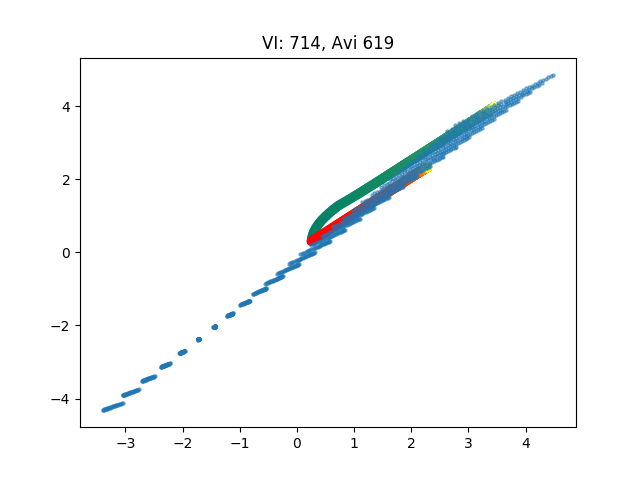
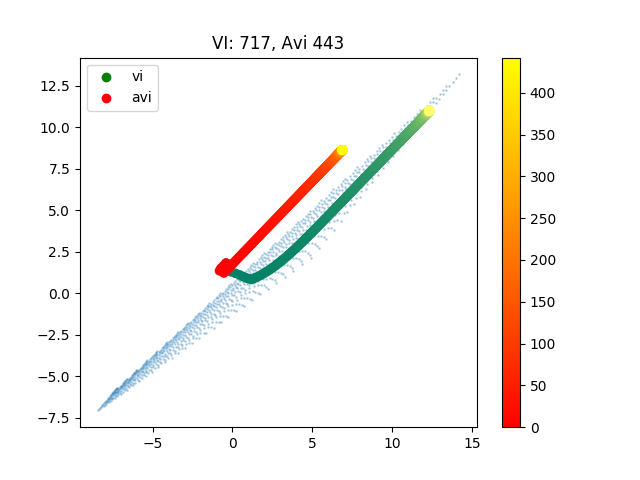
hmm...

diff --git a/code/search_dynamics/experiments.py b/code/search_dynamics/experiments.py
@@ -3,12 +3,9 @@ import numpy as np
 import matplotlib.pyplot as plt
 import copy
 
-def generate_avi_vs_vi():
+def generate_avi_vs_vi(mdp):
     print('Running AVI vs VI')
-    n_states, n_actions = 2, 2
     lr = 0.1
-
-    mdp = build_random_mdp(n_states, n_actions, 0.9)
 
     # vi
     init = np.random.standard_normal((mdp.S, mdp.A))
@@ -16,32 +13,31 @@ def generate_avi_vs_vi():
     vs = np.vstack([np.max(q, axis=1) for q in qs])
 
     n = vs.shape[0]
-    plt.scatter(vs[:, 0], vs[:, 1], c=range(n), cmap='summer', label='vi')
+    plt.scatter(vs[0, 0], vs[0, 1], c='g', label='vi')
+    plt.scatter(vs[:, 0], vs[:, 1], c=range(n), cmap='summer')
 
     # avi
     # K = np.eye(n_states)
-    K = np.random.standard_normal((n_states))
+    K = np.random.standard_normal((mdp.S))
     K = (K + K.T)/2 + 1  # this can accelerate learning. but also lead to divergence. want to explore this more!!!
-    d = np.random.random(n_states)
+    d = np.random.random(mdp.S)
     D = np.diag(d/d.sum())  # this can change the optima!!
     # D = np.eye(n_states)
     qs = solve(adjusted_value_iteration(mdp, lr, D, K), init)
     vs = np.vstack([np.max(q, axis=1) for q in qs])
 
     m = vs.shape[0]
-    plt.scatter(vs[:, 0], vs[:, 1], c=range(m), cmap='autumn', label='avi')
+    plt.scatter(vs[0, 0], vs[0, 1], c='r', label='avi')
+    plt.scatter(vs[:, 0], vs[:, 1], c=range(m), cmap='autumn')
     plt.title('VI: {}, Avi {}'.format(n, m))
+    plt.legend()
+    plt.colorbar()
 
-    vs = polytope(mdp.P, mdp.r, mdp.discount)
-    plt.scatter(vs[:, 0], vs[:, 1], s=5, alpha=0.5)
     plt.savefig('figs/avi-vs-vi.png')
     plt.close()
 
-def generate_vi_sgd_vs_mom():
+def generate_vi_sgd_vs_mom(mdp):
     print('Running VI SGD vs Mom')
-    n_states, n_actions = 2, 2
-
-    mdp = build_random_mdp(n_states, n_actions, 0.9)
 
     # sgd
     init = np.random.standard_normal((mdp.S, mdp.A))
@@ -49,93 +45,89 @@ def generate_vi_sgd_vs_mom():
     vs = np.vstack([np.max(q, axis=1) for q in qs])
 
     n = vs.shape[0]
-    plt.scatter(vs[:, 0], vs[:, 1], c=range(n), cmap='summer', label='sgd')
+    plt.scatter(vs[0, 0], vs[0, 1], c='g', label='sgd')
+    plt.scatter(vs[:, 0], vs[:, 1], c=range(n), cmap='summer')
 
     # momentum
     init = (init, np.zeros_like(init))
     qs = solve(momentum_bundler(value_iteration(mdp, 0.01), 0.9), init)
     vs = np.vstack([np.max(q[0], axis=1) for q in qs])
     m = vs.shape[0]
-    plt.scatter(vs[:, 0], vs[:, 1], c=range(m), cmap='autumn', label='momentum')
-    plt.title('SGD: {}, Mom {}'.format(n, m))
+    plt.scatter(vs[0, 0], vs[0, 1], c='r', label='momentum')
+    plt.scatter(vs[:, 0], vs[:, 1], c=range(m), cmap='autumn')
 
-    vs = polytope(mdp.P, mdp.r, mdp.discount)
-    plt.scatter(vs[:, 0], vs[:, 1], s=5, alpha=0.5)
+    plt.title('SGD: {}, Mom {}'.format(n, m))
+    plt.legend()
+    plt.colorbar()
 
     plt.savefig('figs/vi_sgd-vs-vi_mom.png')
     plt.close()
 
-def generate_PG_vs_VI():
+def generate_PG_vs_VI(mdp):
     print('Running PG vs VI')
-    n_states, n_actions = 2, 2
     lr = 0.1
 
-    mdp = build_random_mdp(n_states, n_actions, 0.9)
-
     # PG
-    init = rnd.standard_normal((n_states, n_actions))
+    init = rnd.standard_normal((mdp.S, mdp.A))
     init /= init.sum(axis=1, keepdims=True)
     logits = solve(policy_gradient_iteration_logits(mdp, lr), init)
     vs = np.vstack([np.max(value_functional(mdp.P, mdp.r, softmax(logit, axis=-1), mdp.discount), axis=1) for logit in logits])
     n = vs.shape[0]
-    plt.scatter(vs[:, 0], vs[:, 1], c=range(n), cmap='autumn', label='PG')
+    plt.scatter(vs[0, 0], vs[0, 1], c='r', label='PG')
+    plt.scatter(vs[:, 0], vs[:, 1], c=range(n), cmap='autumn')
 
     # VI
     init = value_functional(mdp.P, mdp.r, softmax(init, axis=-1), mdp.discount)
     qs = solve(value_iteration(mdp, lr), init)
     vs = np.vstack([np.max(q, axis=1) for q in qs])
     m = vs.shape[0]
-    plt.scatter(vs[:, 0], vs[:, 1], c=range(m), cmap='summer', label='vi')
+    plt.scatter(vs[0, 0], vs[0, 1], c='g', label='vi')
+    plt.scatter(vs[:, 0], vs[:, 1], c=range(m), cmap='summer')
     plt.title('PG: {}, VI {}'.format(n, m))
+    plt.legend()
+    plt.colorbar()
 
-    vs = polytope(mdp.P, mdp.r, mdp.discount)
-    plt.scatter(vs[:, 0], vs[:, 1], s=5, alpha=0.5)
     plt.savefig('figs/pg-vs-vi.png')
     plt.close()
 
-def generate_pvi_vs_vi():
+def generate_pvi_vs_vi(mdp):
     print('Running PVI vs VI')
-    n_states, n_actions = 2, 2
-    lr = 0.001
-
-    mdp = build_random_mdp(n_states, n_actions, 0.9)
+    lr = 0.01
 
     # pvi
-    core_init = random_parameterised_matrix(2, 2, 32, 2)
+    core_init = random_parameterised_matrix(2, 2, 32, 4)
     params = solve(parameterised_value_iteration(mdp, lr), core_init)
-    vs = np.hstack([value(c) for c in params]).T
+    vs = np.vstack([np.max(value(c), axis=1) for c in params])
     m = vs.shape[0]
-    plt.scatter(vs[:, 0], vs[:, 1], c=range(m), cmap='autumn', label='pvi')
+    plt.scatter(vs[0, 0], vs[0, 1], c='r', label='pvi')
+    plt.scatter(vs[:, 0], vs[:, 1], c=range(m), cmap='autumn')
 
     # vi
     init = value(core_init)  # use the same init
     qs = solve(value_iteration(mdp, lr), init)
     vs = np.vstack([np.max(q, axis=1) for q in qs])
     n = vs.shape[0]
-    plt.scatter(vs[:, 0], vs[:, 1], c=range(n), cmap='summer', label='vi')
+    plt.scatter(vs[0, 0], vs[0, 1], c='g', label='vi')
+    plt.scatter(vs[:, 0], vs[:, 1], c=range(n), cmap='summer')
 
     plt.title('VI: {}, PVI {}'.format(n, m))
-
-
-    vs = polytope(mdp.P, mdp.r, mdp.discount)
-    plt.scatter(vs[:, 0], vs[:, 1], s=5, alpha=0.5)
+    plt.legend()
+    plt.colorbar()
 
     plt.savefig('figs/vi-vs-pvi.png')
     plt.close()
 
-def generate_mpvi_vs_mvi():
+def generate_mpvi_vs_mvi(mdp):
     print('Running MPVI vs MVI')
-    n_states, n_actions = 2, 2
-
-    mdp = build_random_mdp(n_states, n_actions, 0.9)
-
     # mpvi
     core_init = random_parameterised_matrix(2, 2, 32, 8)
     init = (core_init, [np.zeros_like(c) for c in core_init])
     params = solve(momentum_bundler(parameterised_value_iteration(mdp, 0.01), 0.9), init)
     vs = np.vstack([np.max(value(c[0]), axis=-1) for c in params])
     m = vs.shape[0]
-    plt.scatter(vs[:, 0], vs[:, 1], c=range(m), cmap='autumn', label='mpvi')
+
+    plt.scatter(vs[0, 0], vs[0, 1], c='r', label='mpvi')
+    plt.scatter(vs[:, 0], vs[:, 1], c=range(m), cmap='autumn')
 
     # mvi
     init = copy.deepcopy(value(core_init))  # use the same init
@@ -143,49 +135,43 @@ def generate_mpvi_vs_mvi():
     qs = solve(momentum_bundler(value_iteration(mdp, 0.01), 0.9), init)
     vs = np.vstack([np.max(q[0], axis=-1) for q in qs])
     n = vs.shape[0]
-    plt.scatter(vs[:, 0], vs[:, 1], c=range(n), cmap='summer', label='mvi')
+
+    plt.scatter(vs[0, 0], vs[0, 1], c='g', label='mvi')
+    plt.scatter(vs[:, 0], vs[:, 1], c=range(n), cmap='summer')
 
     plt.title('MVI: {}, MPVI {}'.format(n, m))
-
-    vs = polytope(mdp.P, mdp.r, mdp.discount)
-    plt.scatter(vs[:, 0], vs[:, 1], s=5, alpha=0.5)
-
+    plt.legend()
+    plt.colorbar()
 
     plt.savefig('figs/mpvi-vs-pvi.png')
     plt.close()
 
-def generate_mpvi_inits():
-    print('Running MPVI inits')
-    n_states, n_actions = 2, 2
-
-    mdp = build_random_mdp(n_states, n_actions, 0.9)
-
-    core_init = random_parameterised_matrix(2, 2, 16, 6)
-    init = (core_init, [np.zeros_like(c) for c in core_init])
-    params = solve(momentum_bundler(parameterised_value_iteration(mdp, 0.01), 0.9), init)
-    vs = np.vstack([np.max(value(c[0]), axis=-1) for c in params])
-    m = vs.shape[0]
-    plt.scatter(vs[:, 0], vs[:, 1], c=range(m), cmap='autumn', label='mpvi', alpha=0.5)
-
-
-    new_init = random_reparameterisation(core_init, 2)
-    # sanity check
-    assert np.isclose(value(core_init), value(new_init), atol=1e-4).all()
-    init = (new_init, [np.zeros_like(c) for c in core_init])
-    params = solve(momentum_bundler(parameterised_value_iteration(mdp, 0.01), 0.9), init)
-    vs = np.vstack([np.max(value(c[0]), axis=-1) for c in params])
-    m = vs.shape[0]
-    plt.scatter(vs[:, 0], vs[:, 1], c=range(m), cmap='summer', label='mpvi', alpha=0.5)
-
-    vs = polytope(mdp.P, mdp.r, mdp.discount)
-    plt.scatter(vs[:, 0], vs[:, 1], s=5, alpha=0.5)
-
-    plt.savefig('figs/mpvi-inits.png')
-    plt.close()
-    """
-    Hmm. I thought this would change the dynamics.
-    It is because the value is only a linear function of the parameters???
-    """
+# def generate_mpvi_inits(mdp):
+#     print('Running MPVI inits')
+#
+#     core_init = random_parameterised_matrix(2, 2, 16, 6)
+#     init = (core_init, [np.zeros_like(c) for c in core_init])
+#     params = solve(momentum_bundler(parameterised_value_iteration(mdp, 0.01), 0.9), init)
+#     vs = np.vstack([np.max(value(c[0]), axis=-1) for c in params])
+#     m = vs.shape[0]
+#     plt.scatter(vs[:, 0], vs[:, 1], c=range(m), cmap='autumn', label='mpvi')
+#
+#
+#     new_init = random_reparameterisation(core_init, 2)
+#     # sanity check
+#     assert np.isclose(value(core_init), value(new_init), atol=1e-4).all()
+#     init = (new_init, [np.zeros_like(c) for c in core_init])
+#     params = solve(momentum_bundler(parameterised_value_iteration(mdp, 0.01), 0.9), init)
+#     vs = np.vstack([np.max(value(c[0]), axis=-1) for c in params])
+#     m = vs.shape[0]
+#     plt.scatter(vs[:, 0], vs[:, 1], c=range(m), cmap='summer', label='mpvi')
+#
+#     plt.savefig('figs/mpvi-inits.png')
+#     plt.close()
+#     """
+#     Hmm. I thought this would change the dynamics.
+#     It is because the value is only a linear function of the parameters???
+#     """
 
 # def generate_pvi_vs_apvi():
 #     print('Running PVI vs APVI')
@@ -221,10 +207,19 @@ def generate_mpvi_inits():
 # pg vs pi
 
 if __name__ == '__main__':
-    generate_vi_sgd_vs_mom()
-    generate_avi_vs_vi()
-    generate_pvi_vs_vi()
-    generate_mpvi_vs_mvi()
-    generate_mpvi_inits()
-    generate_PG_vs_VI()
-    # generate_pvi_vs_apvi()
+    n_states, n_actions = 2, 2
+    mdp = build_random_mdp(n_states, n_actions, 0.9)
+    vs = polytope(mdp.P, mdp.r, mdp.discount)
+
+    experiments = [
+        generate_avi_vs_vi,
+        generate_vi_sgd_vs_mom,
+        generate_pvi_vs_vi,
+        generate_mpvi_vs_mvi,
+        generate_PG_vs_VI,
+        # generate_mpvi_inits,
+    ]
+
+    for exp in experiments:
+        plt.scatter(vs[:, 0], vs[:, 1], s=1, alpha=0.25)
+        exp(mdp)

diff --git a/code/search_dynamics/README.md b/code/search_dynamics/README.md
@@ -7,7 +7,7 @@ Todos.
 Questions
 - Is param + momentum dynamics are more unstable? Or that you move around value-space in non-linear ways??
 - Is param + momentum only faster bc it is allowed larger changes? (normalise for the number of updates being made)
-- What if we make the learning rate very small? (!!?!)
+- What if we make the learning rate very small? (!!?!) (plot momentum as a fn of different lrs. w same init / mdp)
 - How can we put metrics on these? And analyse in higher dims? Which properties do we care about?
 
 ***
